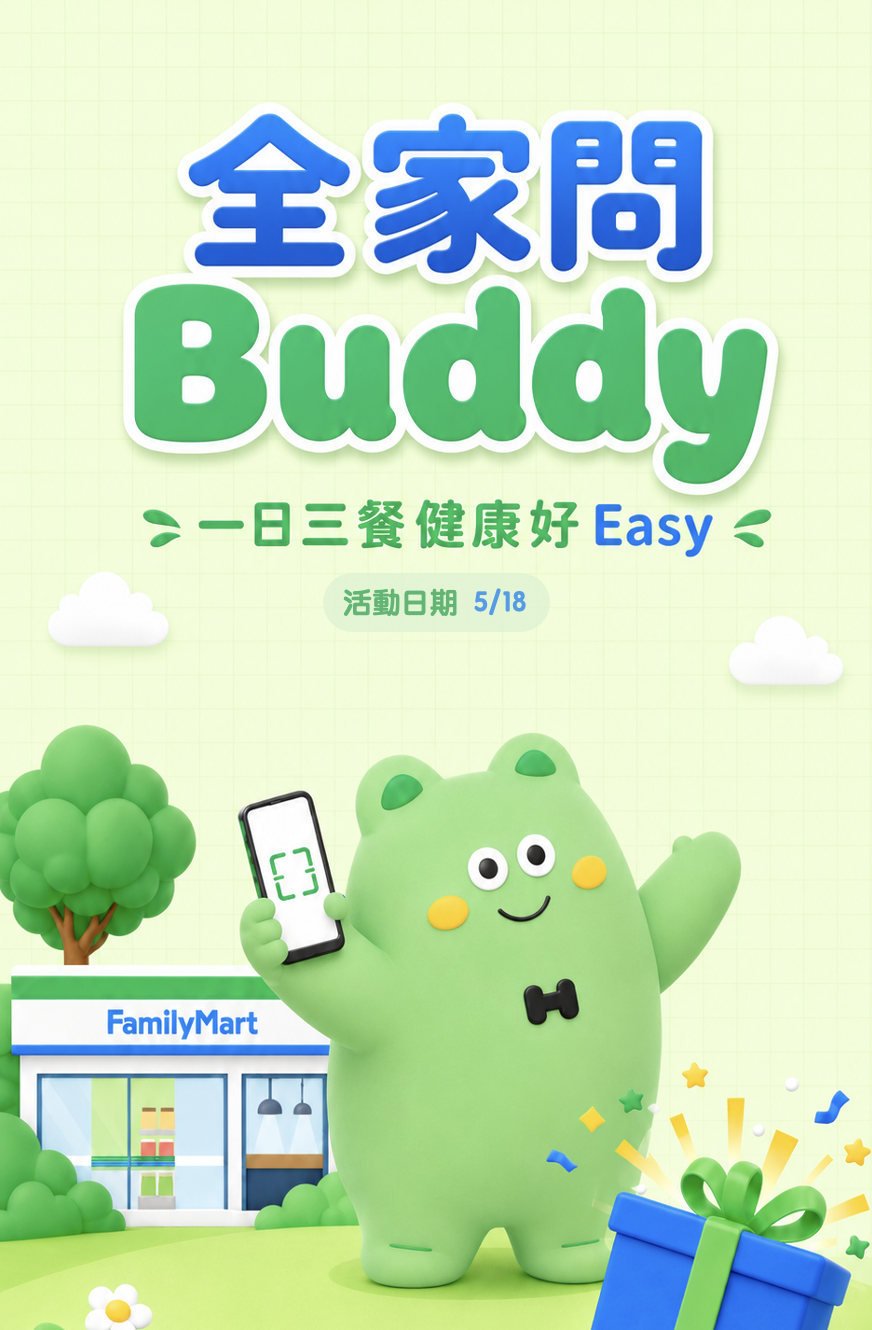
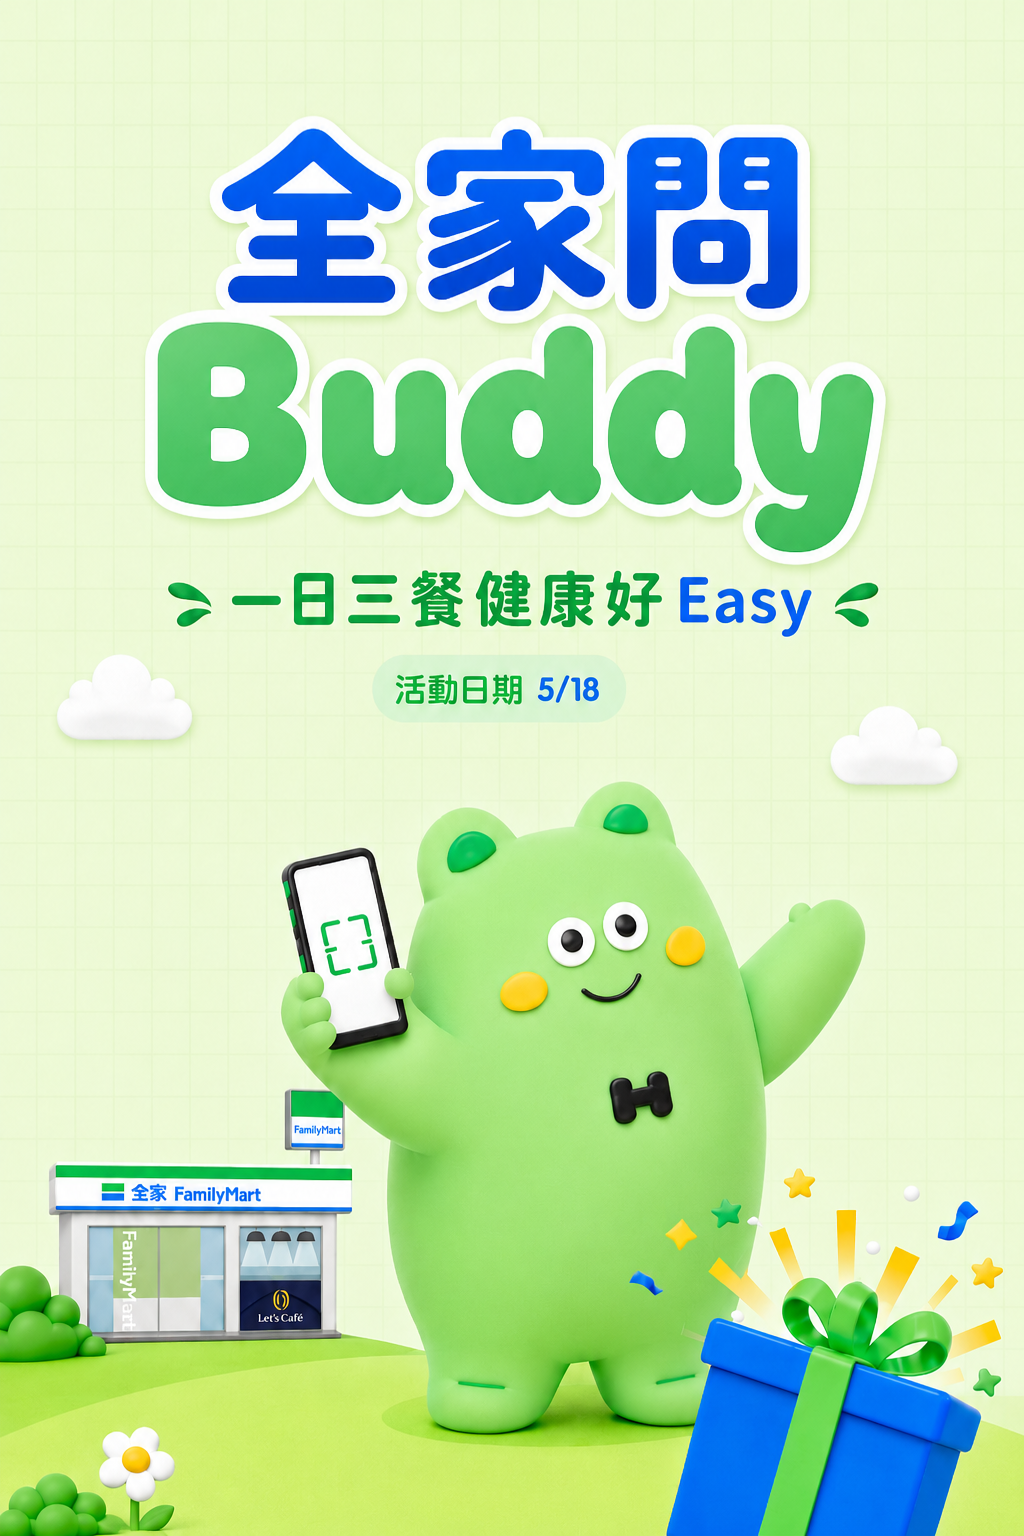
獎品卡片上方加 badge：完成任務 (outline) / 加碼好禮 (實心)，並更新標題與圖檔

diff --git a/index.html b/index.html
@@ -245,6 +245,27 @@ a[role="button"] {
   color: var(--color-primary);
 }
 
+/* 獎品卡片 Badge 與強調邊框 */
+.prize-badge {
+  display: inline-block;
+  font-size: 0.8125rem;
+  font-weight: 700;
+  letter-spacing: 0.15em;
+  padding: 5px 20px 5px 22px; /* 右 padding 略減以抵消字距造成的右側空白 */
+  border-radius: 9999px;
+  margin-bottom: 16px;
+  line-height: 1.5;
+}
+.prize-badge-primary {
+  background-color: var(--color-primary);
+  color: #ffffff;
+}
+.prize-badge-outline {
+  background-color: transparent;
+  color: var(--color-primary);
+  border: 1px solid var(--color-primary);
+}
+
 .line-cta {
   display: inline-flex;
   align-items: center;
@@ -416,42 +437,51 @@ a[role="button"] {
       <!-- 獎品展示區塊 -->
       <section class="mb-16" aria-labelledby="prizes-section">
         <div class="max-w-3xl lg:max-w-5xl mx-auto">
-          <h2 id="prizes-section" class="text-3xl font-bold text-center mb-8 text-dark">完成任務贈健康三好禮</h2>
+          <h2 id="prizes-section" class="text-3xl font-bold text-center mb-8 text-dark">完成「問 Buddy」任務，再贈 2 好禮</h2>
 
           <div class="bg-gray-200/40 rounded-lg p-6 sm:p-8" role="region" aria-label="獎品展示">
             <div class="grid md:grid-cols-2 lg:grid-cols-3 gap-8">
               <!-- 健康三餐 -->
-              <article class="bg-white rounded-lg shadow-lg hover:shadow-xl transition-shadow overflow-hidden flex flex-col items-center"
-                       aria-labelledby="prize-meal">
-                <div class="w-full h-48 bg-cover-center prize-img bg-gray-100"
-                     style="background-image: url('assets/gift1.png')"
-                     role="img" aria-label="健康三餐推薦"></div>
-                <div class="p-6 w-full text-center">
-                  <p id="prize-meal" class="text-base font-bold text-primary">健康三餐 | 全家推薦餐點</p>
-                </div>
-              </article>
+              <div class="flex flex-col items-center">
+                <span class="prize-badge prize-badge-outline">完成任務</span>
+                <article class="bg-white rounded-lg shadow-lg hover:shadow-xl transition-shadow overflow-hidden flex flex-col items-center w-full"
+                         aria-labelledby="prize-meal">
+                  <div class="w-full h-48 bg-cover-center prize-img bg-gray-100"
+                       style="background-image: url('assets/gift1.png')"
+                       role="img" aria-label="健康三餐推薦"></div>
+                  <div class="p-6 w-full text-center">
+                    <p id="prize-meal" class="text-base font-bold text-primary">Buddy告訴你 如何健康吃全家</p>
+                  </div>
+                </article>
+              </div>
 
               <!-- LINE Point -->
-              <article class="bg-white rounded-lg shadow-lg hover:shadow-xl transition-shadow overflow-hidden flex flex-col items-center"
-                       aria-labelledby="prize-points">
-                <div class="w-full h-48 bg-cover-center prize-img bg-gray-100"
-                     style="background-image: url('assets/gift2.png')"
-                     role="img" aria-label="LINE Point 10 點"></div>
-                <div class="p-6 w-full text-center">
-                  <p id="prize-points" class="text-base font-bold text-primary">LINE Points 10 點</p>
-                </div>
-              </article>
+              <div class="flex flex-col items-center">
+                <span class="prize-badge prize-badge-primary">加碼好禮</span>
+                <article class="bg-white rounded-lg shadow-lg hover:shadow-xl transition-shadow overflow-hidden flex flex-col items-center w-full"
+                         aria-labelledby="prize-points">
+                  <div class="w-full h-48 bg-cover-center prize-img bg-gray-100"
+                       style="background-image: url('assets/gift2.png')"
+                       role="img" aria-label="LINE Point 10 點"></div>
+                  <div class="p-6 w-full text-center">
+                    <p id="prize-points" class="text-base font-bold text-primary">LINE Points 10 點</p>
+                  </div>
+                </article>
+              </div>
 
               <!-- 益生菌優惠券 -->
-              <article class="bg-white rounded-lg shadow-lg hover:shadow-xl transition-shadow overflow-hidden flex flex-col items-center"
-                       aria-labelledby="prize-probiotic">
-                <div class="w-full h-48 bg-cover-center prize-img bg-gray-100"
-                     style="background-image: url('assets/gift3.png')"
-                     role="img" aria-label="每日衡好益生菌優惠券"></div>
-                <div class="p-6 w-full text-center">
-                  <p id="prize-probiotic" class="text-base font-bold text-primary">每日衡好益生菌優惠券</p>
-                </div>
-              </article>
+              <div class="flex flex-col items-center">
+                <span class="prize-badge prize-badge-primary">加碼好禮</span>
+                <article class="bg-white rounded-lg shadow-lg hover:shadow-xl transition-shadow overflow-hidden flex flex-col items-center w-full"
+                         aria-labelledby="prize-probiotic">
+                  <div class="w-full h-48 bg-cover-center prize-img bg-gray-100"
+                       style="background-image: url('assets/gift3.png')"
+                       role="img" aria-label="每日衡好益生菌優惠券"></div>
+                  <div class="p-6 w-full text-center">
+                    <p id="prize-probiotic" class="text-base font-bold text-primary">每日衡好益生菌優惠券</p>
+                  </div>
+                </article>
+              </div>
             </div>
           </div>
         </div>